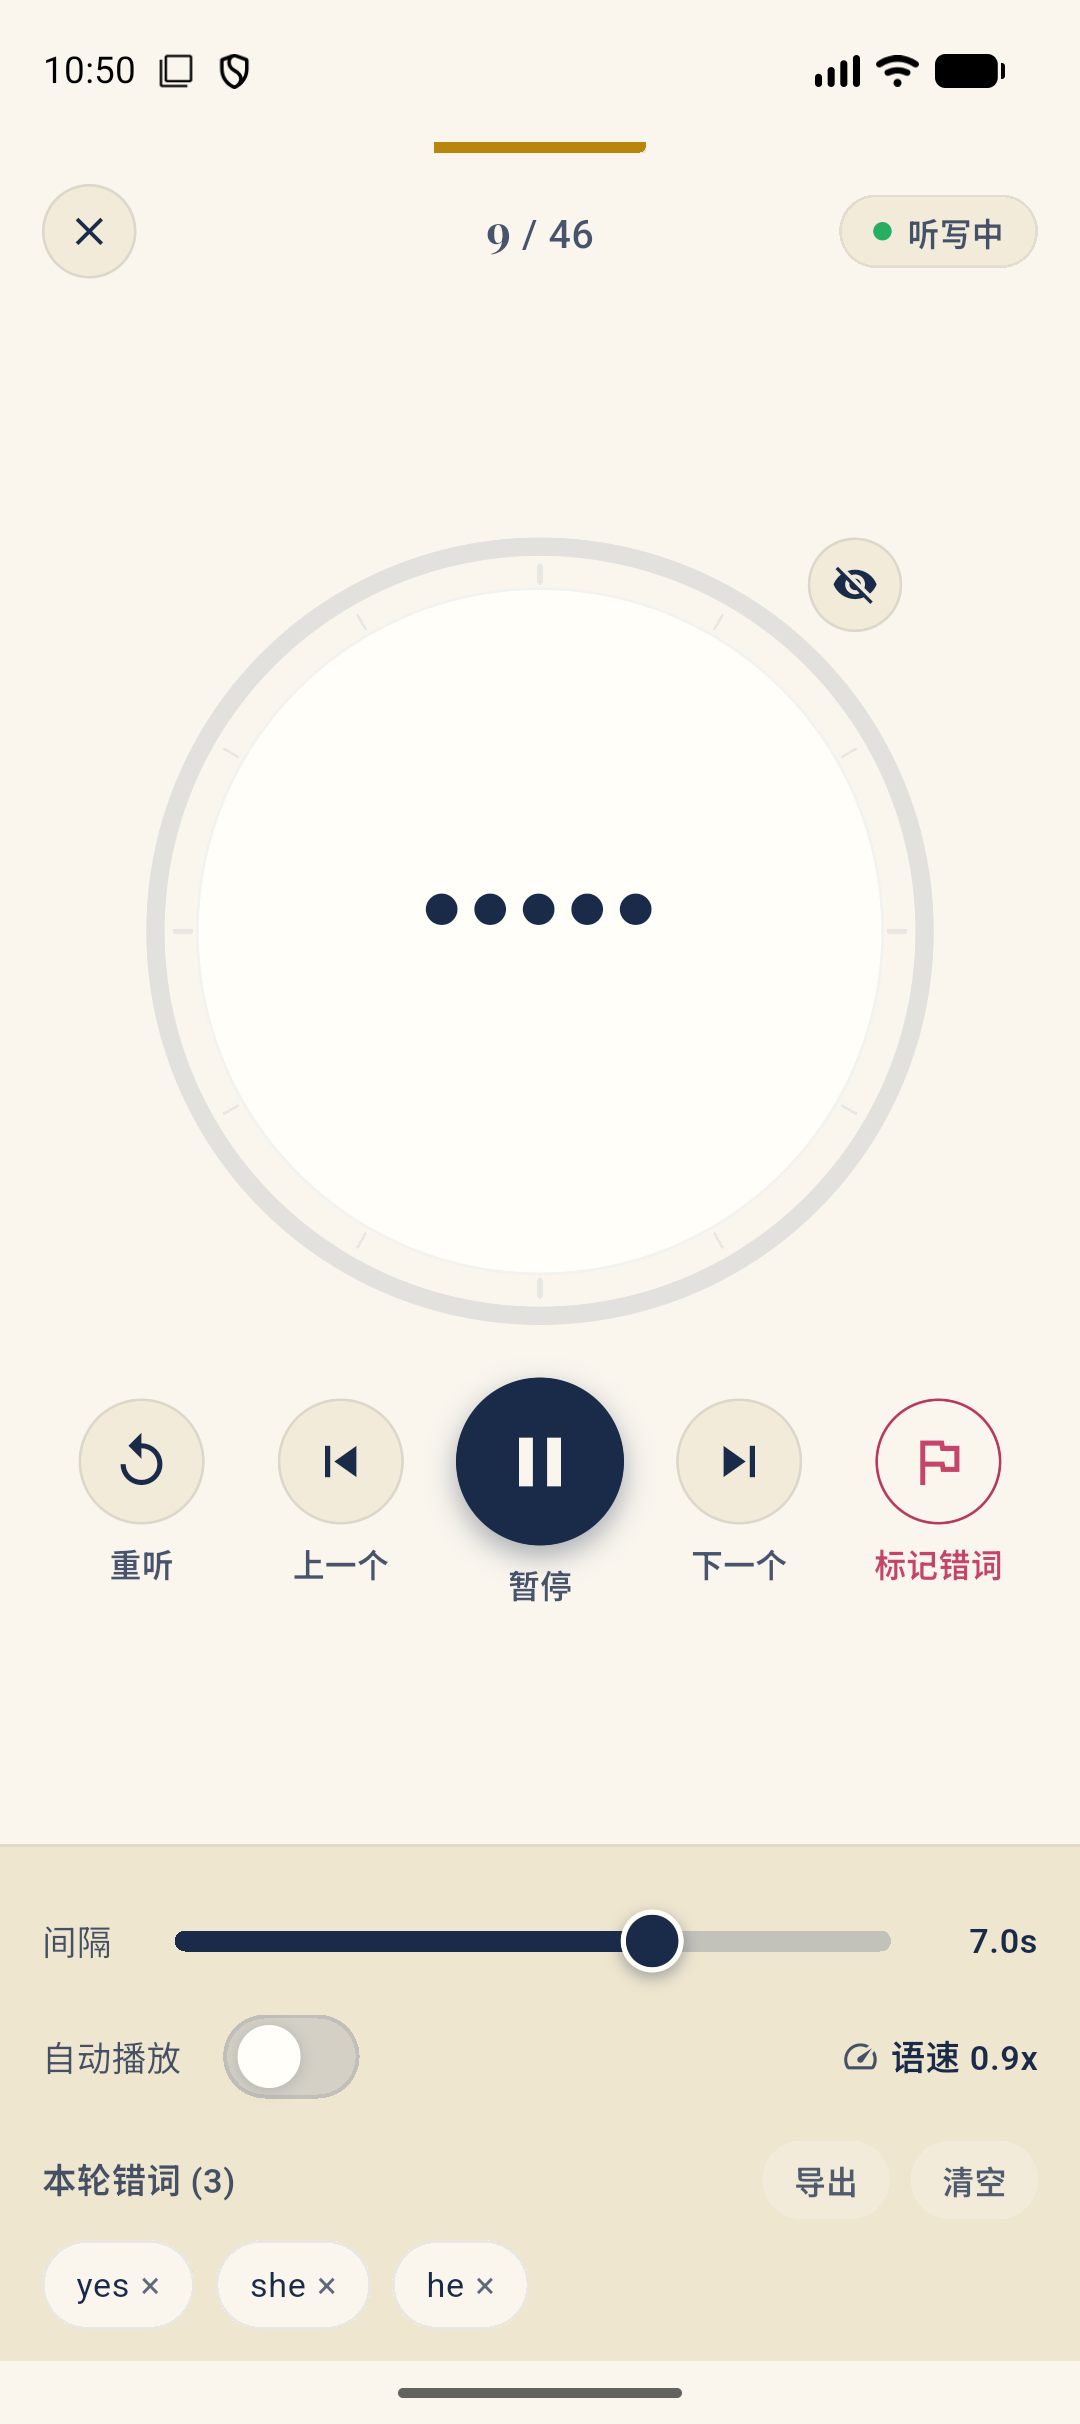
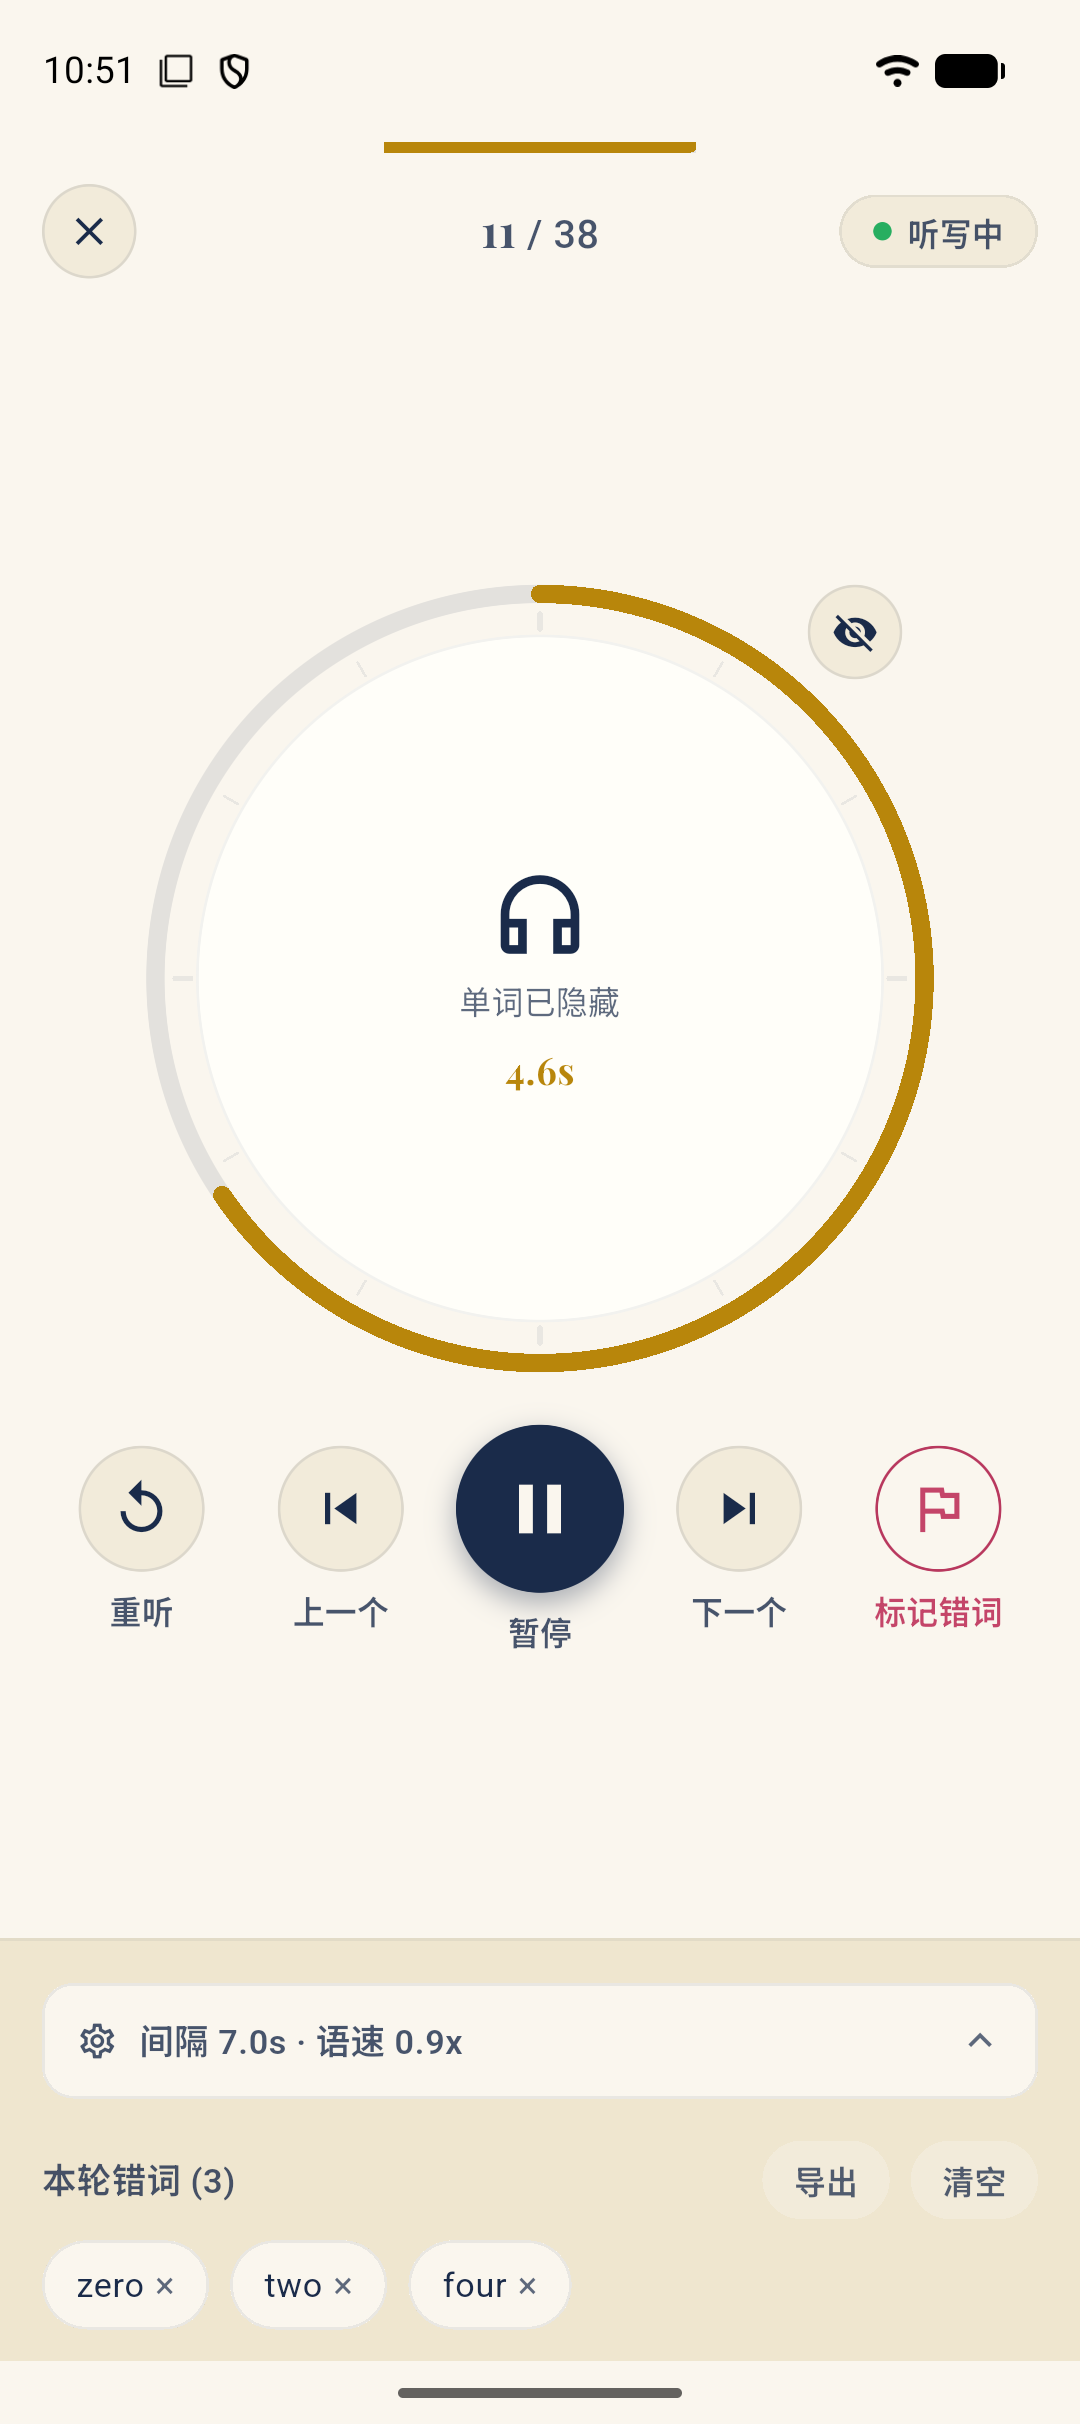
chore: update README and enhance screenshot management
Updated the README to reflect changes in the completion page, including the addition of correct rates and improved error word interaction. Enhanced the screenshot upload script to use content-hashed filenames for better cache management and updated the PhoneMockup and Showcase components to align with the new screenshot URLs and descriptions. Additionally, refined the dictation screen's animation behavior for improved accessibility.

diff --git a/lib/screens/dictation_screen.dart b/lib/screens/dictation_screen.dart
@@ -97,9 +97,13 @@ class _DictationScreenState extends State<DictationScreen>
 
   // 倒计时环：每段用一条线性动画驱动，让它以 60fps 匀速耗尽，
   // 而不是跟着调度器每 50ms 的 tick 重绘。
+  //
+  // preserve：它是计时读数，不是装饰动画。系统里关了动画（无障碍「移除动画」、
+  // 开发者选项动画缩放 0）时，normal 会把时长压到 1/20，环一出现就耗尽了。
   late final AnimationController _countdownAnim = AnimationController(
     vsync: this,
     duration: const Duration(milliseconds: 1),
+    animationBehavior: AnimationBehavior.preserve,
   );
 
   late final AnimationController _finishAnim = AnimationController(

diff --git a/website/src/components/Showcase.tsx b/website/src/components/Showcase.tsx
@@ -45,7 +45,7 @@ const ITEMS: ShowCaseItem[] = [
   {
     eyebrow: "Step 04 · 回顾",
     title: "错词留在成绩单上，再听一遍",
-    desc: "听写完成即出成绩：单词、错词、用时，错了哪几个直接列在卡片上。可再听错词，或导出反复练习。",
+    desc: "听写完成即出成绩：单词、错词、正确率、用时，错了哪几个直接列在卡片上，点一下就能听发音、看释义。可再听错词，或导出反复练习。",
     points: ["单词 / 错词 / 用时，错词列在成绩单", "错词再听一遍", "错词本导出与清空"],
     shot: "finish",
     reverse: true,

diff --git a/website/src/components/PhoneMockup.tsx b/website/src/components/PhoneMockup.tsx
@@ -18,7 +18,7 @@ const SHOTS: Record<AppShot, { src: string; alt: string }> = {
   },
   finish: {
     src: SCREENSHOTS.finish,
-    alt: "完成：成绩单、本轮错词与再听一遍",
+    alt: "完成：成绩单、正确率、本轮错词与再听一遍",
   },
 };
 

diff --git a/README.md b/README.md
@@ -39,8 +39,8 @@
 - 键盘操作：空格暂停 · ← → 切词 · R 重听 · M 标错词 · Esc 退出
 - 显示 / 隐藏当前单词，词性与释义提示
 - 标记错词，本地持久化；错词本在首页菜单里可查看、划词、导出、直接开听
-- 完成页给出本轮成绩（单词 / 错词 / 用时）并列出错了哪几个
-- 词表删词与清空都可撤销；历史与收藏支持搜索
+- 完成页给出本轮成绩（单词 / 错词 / 正确率 / 用时）并列出错了哪几个，点错词即可听发音、看释义
+- 词表左滑或点 ✕ 删词，删词与清空都可撤销；历史与收藏支持搜索
 - 亮色 / 暗色 / 跟随系统主题；提示音与触感反馈各自可关
 
 ## 技术栈
